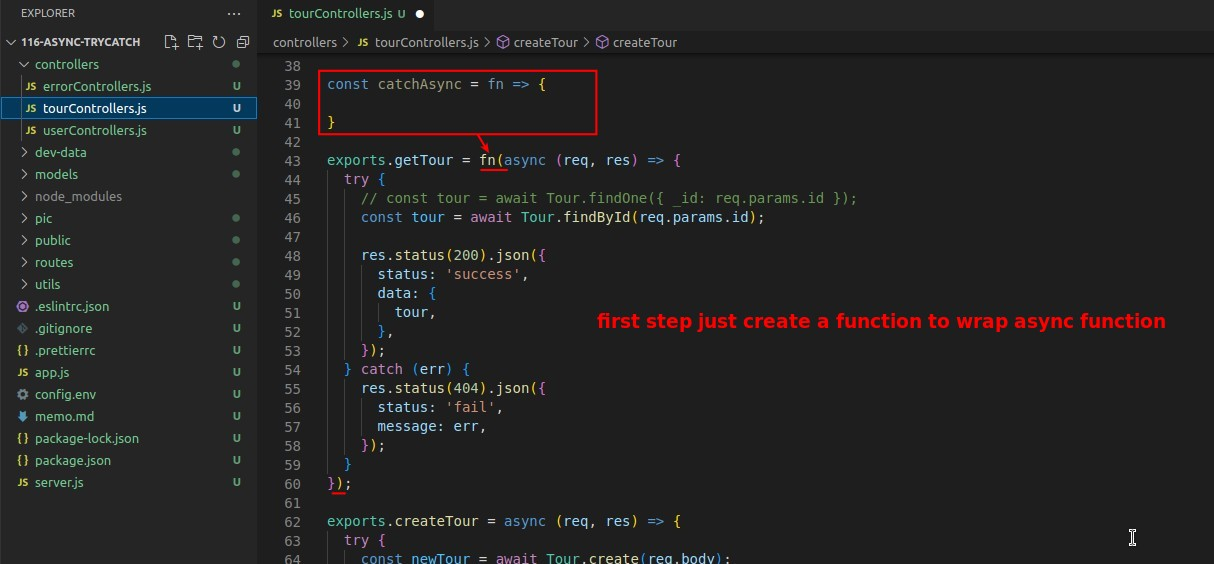
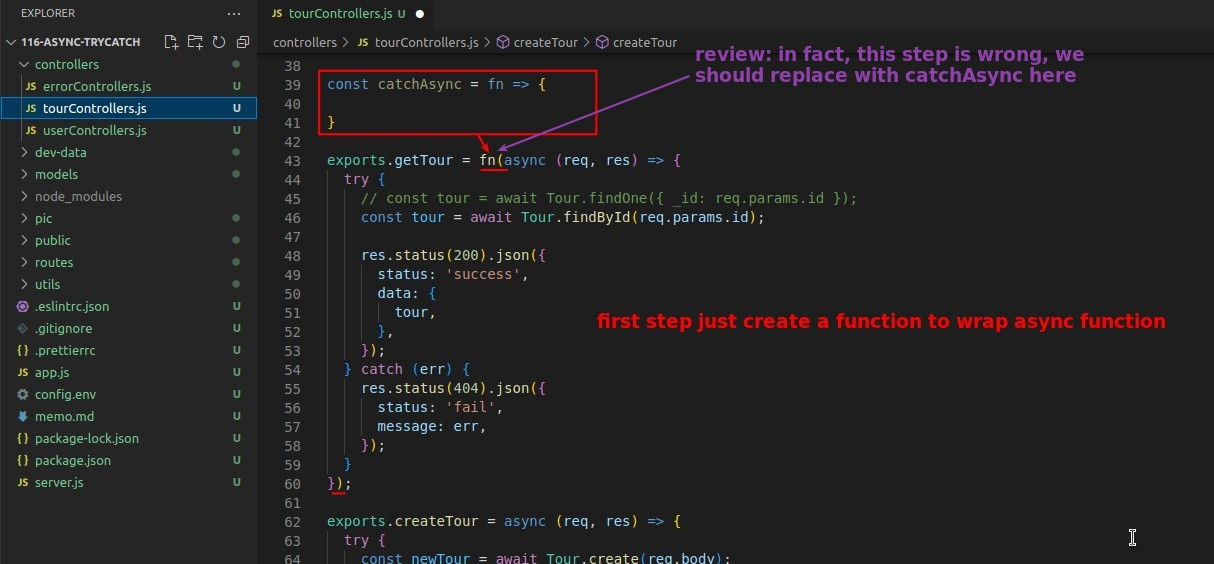
qq

diff --git a/9-error-handling/116-async-trycatch/memo.md b/9-error-handling/116-async-trycatch/memo.md
@@ -10,13 +10,22 @@
 
 ![Alt move catch error to higher func](pic/04.jpg)
 
+- In fact, you can find that the part setting error status code has disappeared, and the error is caught and thrown directly to the global error handling middleware.
+  - So if an error is caught, the status code will use the default value of 500.
+
 ![Alt use higher func](pic/05.jpg)
 
 ## **Still Not Work!?**
 
+> So far it is still not working at all, for two reasons bellow.
+
 ![Alt 2 reason why not work](pic/06.jpg)
 
 ![Alt use return to solve](pic/07.jpg)
+
+### _fn problem_
+
+> There is an error in the second step at the top that causes the npm start error, simply fix it back.
 
 ![Alt npm start but error](pic/08.jpg)
 
